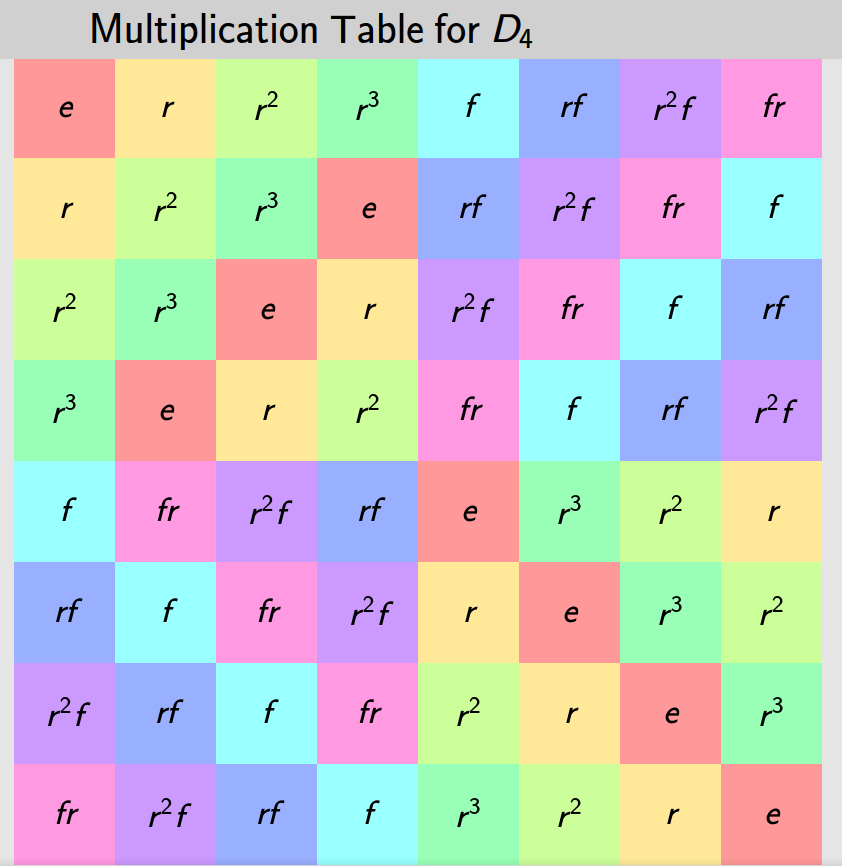
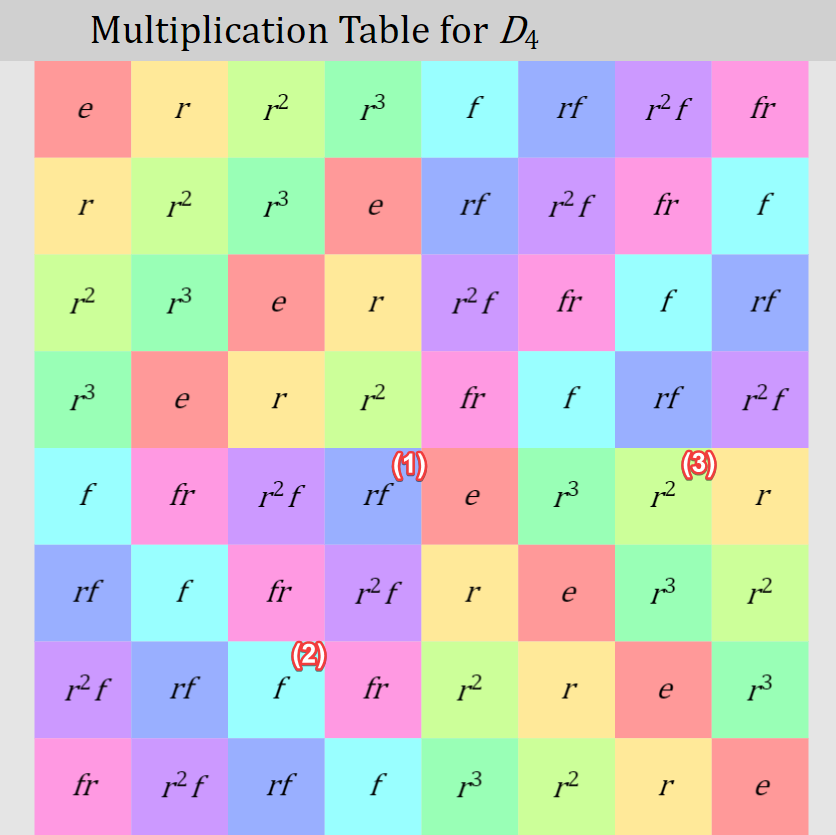
Gap and groups

diff --git a/2023-06-05-groups_gap_02.tex b/2023-06-05-groups_gap_02.tex
@@ -40,6 +40,16 @@ This matches the definition from above as we find
     <identity ...>
 \end{verbatim}
 
+We can also display the relators (ie the set of defining equations) of the group,
+
+\begin{verbatim}
+	gap> RelatorsOfFpGroup(DihedralGroup(8));
+	[ r^4, s^2, s^-1*r*s*r ]
+\end{verbatim}
+
+The first two exactely follow our definition; for the last we have $s^{-1}rsr = e \rightarrow rsr = s \rightarrow sr = r^{-1}s \rightarrow srs = r^{-1}ss = r^{-1}$. \qed
+
+
 We can obtain the main properties for $D_8$,
 
 \begin{verbatim}
@@ -55,17 +65,17 @@ From the \href{https://nathancarter.github.io/group-explorer/Multtable.html?grou
 
 \begin{figure}[H]
     \centering
-    \includegraphics[scale=0.25]{images/2023-06-05_groups_gap_D4.png}
+    \includegraphics[scale=0.35]{images/2023-06-05_groups_gap_D4.png}
 \end{figure}
 
-We can compare some cases with Gap.
+We can compare some cases with Gap (the numbers in the Figure corresponds to the numbers in the session below)
 
 \begin{verbatim}
-    gap> s*r^3;
+    gap> s*r^3;     # item (1)
     r*s
-    gap> r^2*s*r^2;
+    gap> r^2*s*r^2; # item (2)
     s
-    gap> s*r^2*s;
+    gap> s*r^2*s;   # item (3)
     r^2
 \end{verbatim}
 
@@ -77,8 +87,10 @@ When we store the elements of the group in a variable \verb+e+, and store the nu
     gap> n:=Size(e);
     8
     gap> M:=MultiplicationTable(D8);
-    [ [ 1, 2, 3, 4, 5, 6, 7, 8 ], [ 2, 5, 1, 7, 3, 4, 8, 6 ], [ 3, 1, 5, 6, 2, 8, 4, 7 ], [ 4, 6, 7, 1, 8, 2, 3, 5 ], 
-    [ 5, 3, 2, 8, 1, 7, 6, 4 ], [ 6, 8, 4, 3, 7, 1, 5, 2 ], [ 7, 4, 8, 2, 6, 5, 1, 3 ], [ 8, 7, 6, 5, 4, 3, 2, 1 ] ]
+    [ [ 1, 2, 3, 4, 5, 6, 7, 8 ], [ 2, 5, 1, 7, 3, 4, 8, 6 ], 
+	  [ 3, 1, 5, 6, 2, 8, 4, 7 ], [ 4, 6, 7, 1, 8, 2, 3, 5 ], 
+      [ 5, 3, 2, 8, 1, 7, 6, 4 ], [ 6, 8, 4, 3, 7, 1, 5, 2 ], 
+	  [ 7, 4, 8, 2, 6, 5, 1, 3 ], [ 8, 7, 6, 5, 4, 3, 2, 1 ] ]
     gap> for i in [1..n] do
     >         for j in [1..n] do
     >         ind := M[i][j];
@@ -97,7 +109,7 @@ When we store the elements of the group in a variable \verb+e+, and store the nu
     s*r^2 s*r    r*s    r^2    s     r      r^-1   e   
 \end{verbatim}
 
-The result looks a bit different than the table from Group Explorer, but contains the same information.
+The ordering of the columns is different compared to GroupExplorer; in addition, Gap seems to minimize the exponents (at the expense of negative ones); eg prefering \verb+r^-1 + over \verb+r^3+. Therefore, the result looks different than the table from GroupExplorer, but contains the same information.
 
 \paragraph{Permutation Representation.} We can also get the group elements as permutations (that makes interpretation in terms of how the element affect points easier),
 
@@ -105,7 +117,8 @@ The result looks a bit different than the table from Group Explorer, but contain
     gap> DihedralGroup(IsPermGroup, 8);
     Group([ (1,2,3,4), (2,4) ])
     gap> e:=Elements(DihedralGroup(IsPermGroup, 8));
-    [ (), (2,4), (1,2)(3,4), (1,2,3,4), (1,3), (1,3)(2,4), (1,4,3,2), (1,4)(2,3) ]
+    [ (), (2,4), (1,2)(3,4), (1,2,3,4), (1,3), (1,3)(2,4), 
+	  (1,4,3,2), (1,4)(2,3) ]
 \end{verbatim}
 
 If we consider a square with points labelled $1, 2, 3, 4$ as shown below, the Dihedral Group $D_4$ contains the following:
@@ -123,6 +136,25 @@ If we consider a square with points labelled $1, 2, 3, 4$ as shown below, the Di
     \centering
     \includegraphics[scale=0.75]{images/2023-06-05_groups_gap_D4_2.png}
 \end{figure}
+
+We can display the mapping from permutations to "equation symbols" as follows.
+
+\begin{verbatim}
+	gap> GroupHomomorphismByImages(DihedralGroup(IsPermGroup, 8), DihedralGroup(8));
+	[ (1,2,3,4), (2,4) ] -> [ r, s ]
+\end{verbatim}
+
+With this knowledge, we can (manually) create a mapping table from "equation symbols" to permutations.
+
+\begin{verbatim}
+	r^-1 -> (1,4,3,2)
+	r    -> (1,2,3,4)
+    s    -> (2,4)
+    r^2  -> (1,3(2,4)
+    rs   -> (1,4(2,3)
+	sr   -> (1,2)(3,4)
+	sr^2 -> (1,3)
+\end{verbatim}
 
 The order of the group elements are as follows,
 
@@ -168,7 +200,7 @@ Since every group can be expressed as subgroup of the Symmetric Group, we can al
       \textcolor{red}{"D8", "D8", "D8"}, "A4", "S4" ]
 \end{Verbatim}
 
-Above subgroups labelled as $D_8$ have different generators than what Gap returned (\verb+Group([ (1,2,3,4), (2,4) ])+); nevertheles, we are almost there; in the third group (\verb+Group([ (1,2)(3,4), (1,4)(2,3), (2,4) ])+), let's define
+Above subgroups labelled as $D_8$ have different generators than what Gap returned (\verb+Group([ (1,2,3,4), (2,4) ])+); nevertheless, we are almost there; in the third group (\verb+Group([ (1,2)(3,4), (1,4)(2,3), (2,4) ])+), let's define
 
 \begin{verbatim}
     gap> g1:=(1,2)(3,4);;
@@ -263,6 +295,36 @@ The multiplication table of the cyclic group $C_6$ is really different and I don
       [ 4, 5, 6, 1, 2, 3 ], [ 5, 6, 1, 2, 3, 4 ], [ 6, 1, 2, 3, 4, 5 ] ]
 \end{verbatim}
 
+We can use some Gap magic to find out whether two groups are isomorphic or not \todo{add citation!}
+
+\begin{verbatim}
+gap> AreIsomorphic := function(G, H)
+> return not IsomorphismGroups(G, H) = fail;
+> end;
+function( G, H ) ... end
+gap> AreIsomorphic(g2, CyclicGroup(6));
+true
+\end{verbatim}
+
+So, yes, the two groups are isomorphic! Let's work out how the isommorphism looks like using Gap. We can use the function \verb+IsomorphismGroups+,
+
+\begin{verbatim}
+gap> IsomorphismGroups(s2, C6);
+[ f1, f2^2 ] -> [ a^3, a^2 ]
+\end{verbatim}
+
+
+The elements of \verb+g2+ are \verb+e, f1, f2, f1*f2, f2^2, f1*f2^2 + (see further above). Using the isommorphism provided by Gap, we can rewrite this as \\
+\verb+e, a^3, f2, f1*f2, a^2, a^5+; the mapping of two elements is still open (\verb+f2+ could be either \verb+a+ or \verb+a^4 +).
+
+Let's assume that \verb+f2 = a^4 +. From the group structure we know that $a^6 = e$ and therefore \verb+f2 f2^2 = e+. Let's check in Gap (using the fact that \verb+e[5] = a^2+ ),
+
+\begin{verbatim}
+gap> e[3]*e[5];
+<identity> of ...
+\end{verbatim}
+
+which confirms our assumption. The element \verb+f1*f2+ now becomes \verb+a^5 + and the elements of the group \verb+g2+ are \verb+e, a^3, a^4, a, a^2, a^5+ .
 
 
 %%% Local Variables:
